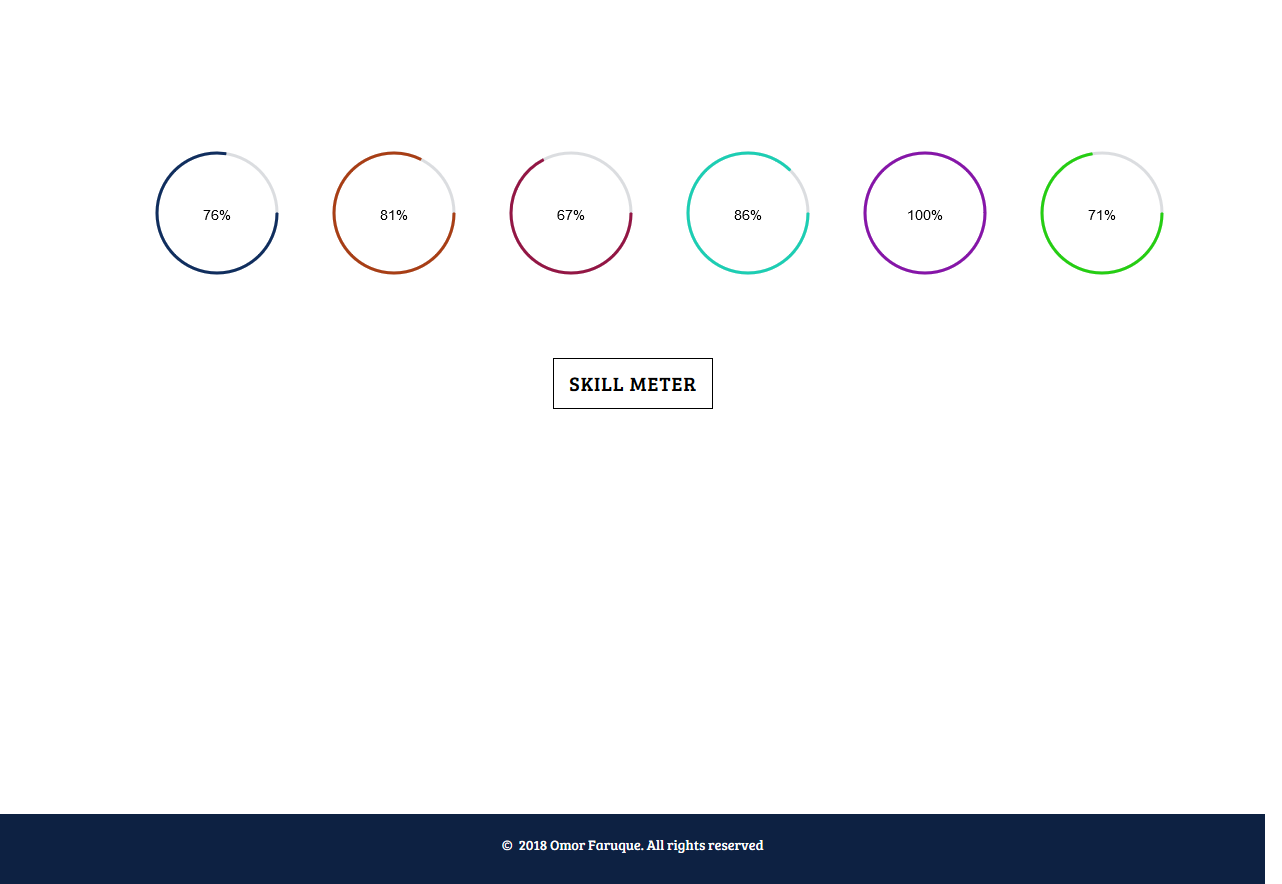
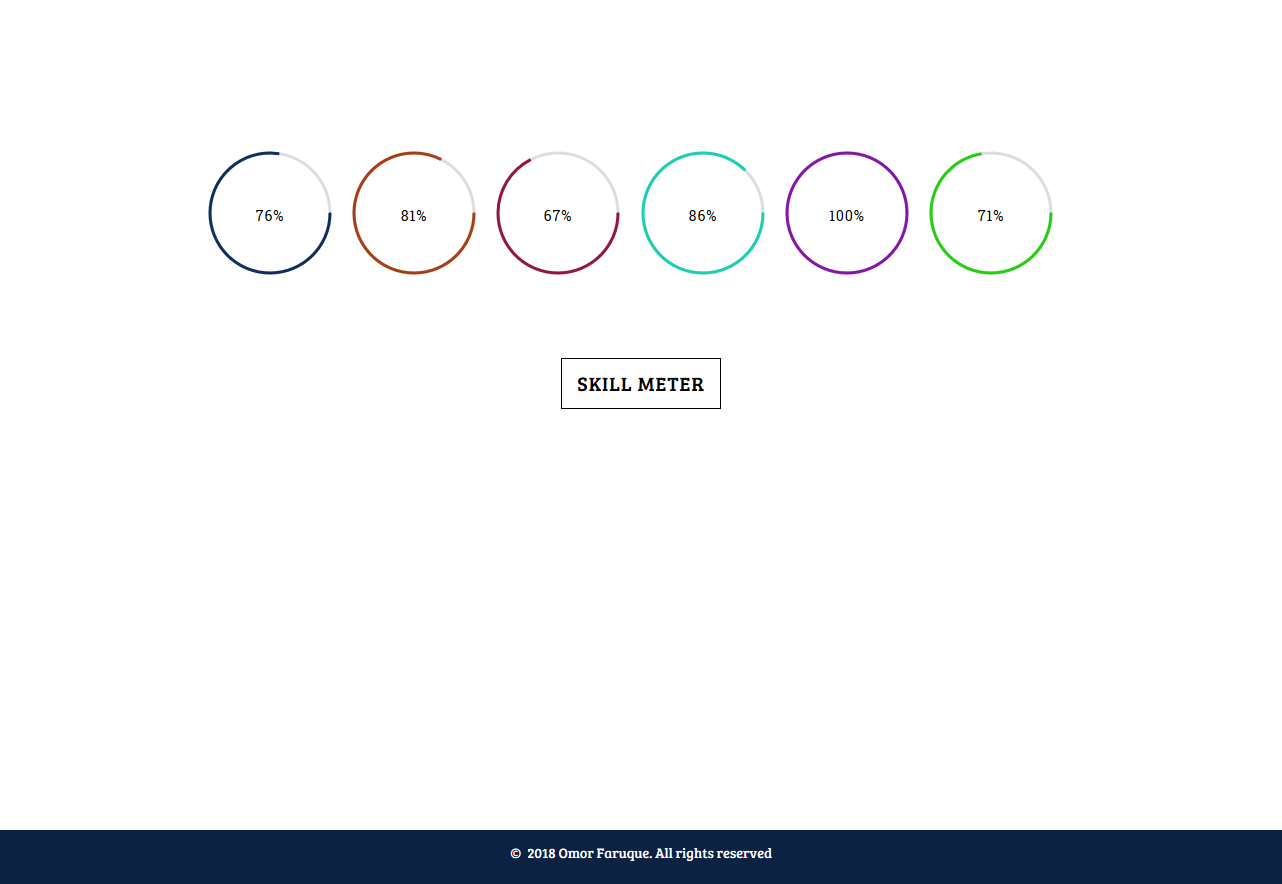
fixed the code page v4

diff --git a/codes/CircleSkilldesign/styles/style.css b/codes/CircleSkilldesign/styles/style.css
@@ -1,11 +1,12 @@
 body, html {
   width: 100%;
   margin: 0;
+  position:fixed;
 }
 
 .container1 {
   position:relative; 
-  width:20%;
+  width:18%;
   display:inline-block;
   padding: 0;
   margin-right:-60px;
@@ -16,7 +17,7 @@ body, html {
 .outer-container{
   position:relative;
   margin-top:200px;
-  margin-left:100px;
+  margin-left:170px;
 }
 
 

diff --git a/codes/CircleSkilldesign/skillMeter.html b/codes/CircleSkilldesign/skillMeter.html
@@ -103,7 +103,7 @@
     <!--Footer-->
 
     <div class="footer">
-        <p style="text-align:center;font-family:'Bree Serif';padding:20px"> &copy;&nbsp;
+        <p style="text-align:center;font-family:'Bree Serif';padding:12px"> &copy;&nbsp;
             <span id="date">Date</span> Omor Faruque. All rights reserved</p>
     </div>
 
